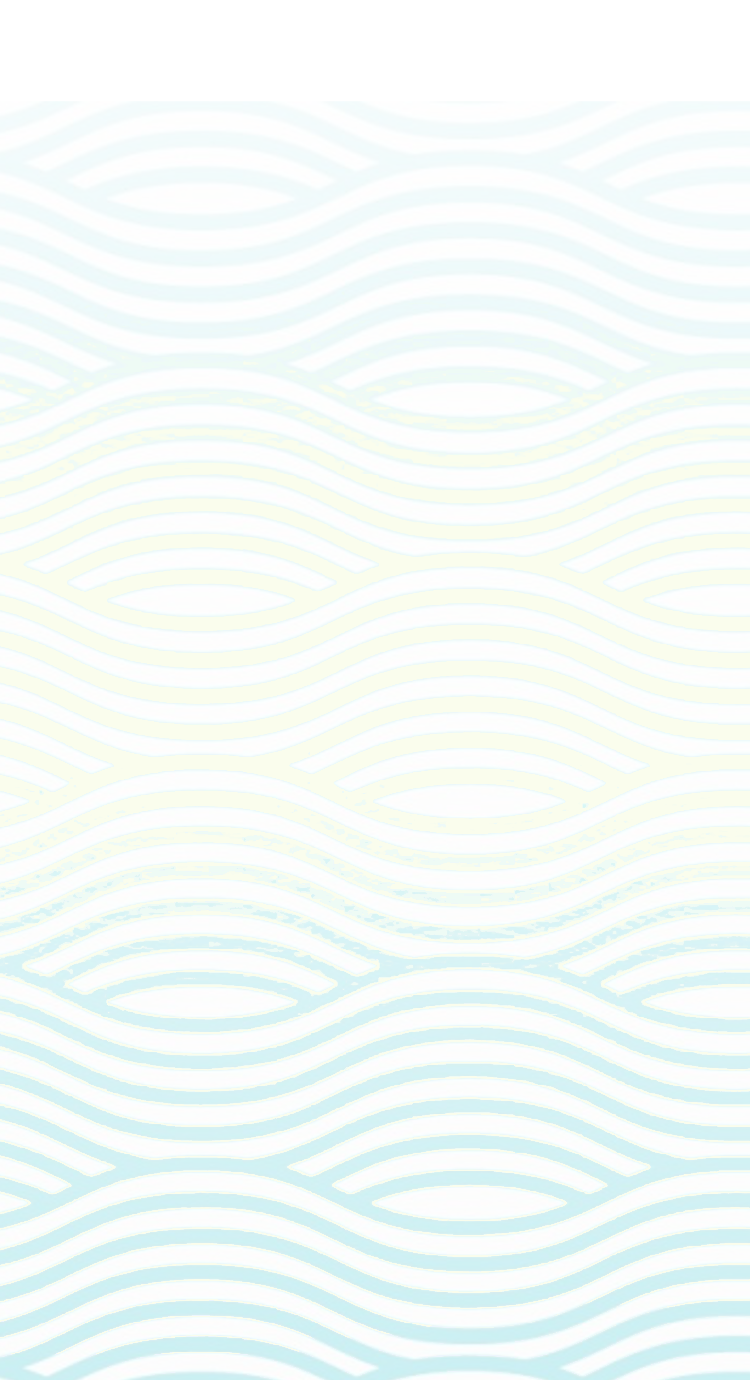
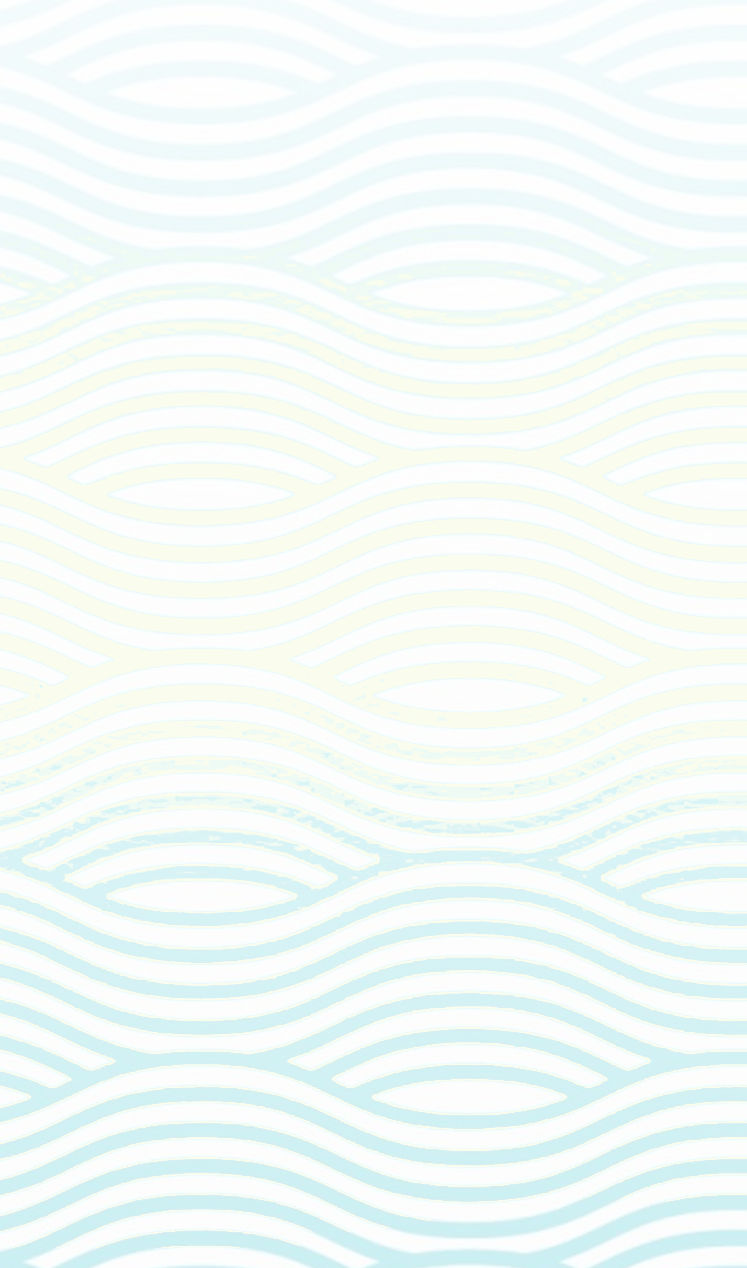
added backgrounds

Changed region(s): [[0.0, 0.6459, 1.0, 0.9227], [0.0, 0.9535, 1.0, 1.0]]

diff --git a/App/Containers/RunTrackerScreen.js b/App/Containers/RunTrackerScreen.js
@@ -1,7 +1,7 @@
 import React from 'react'
 import { View, ScrollView, Text, TouchableOpacity, Image, StyleSheet } from 'react-native'
 import { StackNavigator } from 'react-navigation'
-import { Images } from './DevTheme'
+import { Images } from '../Themes'
 import MapView from 'react-native-maps'
 import styles from './Styles/RunTrackerScreenStyles'
 import RoundedButton from '../../App/Components/RoundedButton'
@@ -273,6 +273,8 @@ class RunTrackerScreen extends React.Component {
           </View>
           </PopupDialog>
         </View>
+        
+        <Image source={Images.waves2} style={styles.backgroundImage} resizeMode='repeat' />
 
         <TouchableOpacity onPress={() => { this.setState({text: 'start'}) 
           NavigationActions.pop()}} style={{
@@ -284,9 +286,8 @@ class RunTrackerScreen extends React.Component {
           <Image source={Images.backButton} />
         </TouchableOpacity>
 
-        <ScrollView style={styles.container}>
-
-          <View style={{ flexDirection: 'row', flex: 1 , height: 90, opacity: this.state.timerOpacity}}>
+        <ScrollView>
+          <View style={{backgroundColor: 'rgba(0,0,0,0)', flexDirection: 'row', flex: 1 , height: 90, opacity: this.state.timerOpacity}}>
             <Text style={{
               width: 200, 
               fontSize: 50, 
@@ -416,7 +417,7 @@ class RunTrackerScreen extends React.Component {
 export default StackNavigator({
   RunTrackerScreen: {screen: RunTrackerScreen}
 }, {
-  headerMode: 'screen',
+  headerMode: 'float',
   initialRouteName: 'RunTrackerScreen',
   navigationOptions: {
     header: {

diff --git a/App/Containers/CGscreen.js b/App/Containers/CGscreen.js
@@ -13,6 +13,7 @@ import GoalsPage from './Goals'
 import ChallengePage from './Challenges'
 import Tabs from 'react-native-tabs';
 import Spinner from 'react-native-loading-spinner-overlay';
+import styles from './Styles/RunTrackerScreenStyles'
 
 @connect(store => ({
   userinfo: store.login.username,
@@ -48,6 +49,7 @@ class CGscreen extends React.Component {
         if(!this.props.userobj){
       return (
       <View>
+          <Image source={Images.waves2} style={styles.backgroundImage} resizeMode='repeat' />
          <ActivityIndicator
             size="large"
             color="#0000ff"
@@ -57,6 +59,8 @@ class CGscreen extends React.Component {
     } 
     return (
       <View>
+        <Image source={Images.waves2} style={styles.backgroundImage} resizeMode='repeat' />
+
        <TouchableOpacity onPress={() => NavigationActions.pop()} style={{
           position: 'absolute',
           paddingTop: 0,
@@ -65,10 +69,10 @@ class CGscreen extends React.Component {
         }}>
           <Image source={Images.backButton} />
         </TouchableOpacity>
-      <ScrollView>
+      <ScrollView >
 
       <View>
-         <ScrollableTabView>
+         <ScrollableTabView style={{backgroundColor: 'rgba(0,0,0,0)'}}>
         <GoalsPage tabLabel="Goals"/>
         <ChallengePage tabLabel="Challenges"/>
         </ScrollableTabView>

diff --git a/App/Containers/DevTheme/ApplicationStyles.js b/App/Containers/DevTheme/ApplicationStyles.js
@@ -9,7 +9,6 @@ const ApplicationStyles = {
   screen: {
     mainContainer: {
       flex: 1,
-      backgroundColor: Colors.transparent
     },
     backgroundImage: {
       position: 'absolute',
@@ -21,7 +20,6 @@ const ApplicationStyles = {
     container: {
       flex: 1,
       paddingTop: Metrics.baseMargin,
-      backgroundColor: Colors.transparent
     },
     section: {
       margin: Metrics.section,
@@ -30,12 +28,12 @@ const ApplicationStyles = {
     sectionText: {
       ...Fonts.normal,
       paddingVertical: Metrics.doubleBaseMargin,
-      color: Colors.snow,
+      // color: Colors.snow,
       marginVertical: Metrics.smallMargin,
       textAlign: 'center'
     },
     subtitle: {
-      color: Colors.snow,
+      // color: Colors.snow,
       padding: Metrics.smallMargin,
       marginBottom: Metrics.smallMargin,
       marginHorizontal: Metrics.smallMargin

diff --git a/App/Themes/ApplicationStyles.js b/App/Themes/ApplicationStyles.js
@@ -9,7 +9,7 @@ const ApplicationStyles = {
   screen: {
     mainContainer: {
       flex: 1,
-      backgroundColor: Colors.transparent
+      backgroundColor: 'red',
     },
     backgroundImage: {
       position: 'absolute',
@@ -21,7 +21,7 @@ const ApplicationStyles = {
     container: {
       flex: 1,
       paddingTop: Metrics.baseMargin,
-      backgroundColor: Colors.transparent
+      // backgroundColor: Colors.transparent
     },
     section: {
       margin: Metrics.section,
@@ -66,7 +66,7 @@ const ApplicationStyles = {
   sectionTitle: {
     ...Fonts.style.h4,
     color: Colors.coal,
-    backgroundColor: Colors.ricePaper,
+    backgroundColor: 'red',
     padding: Metrics.smallMargin,
     marginTop: Metrics.smallMargin,
     marginHorizontal: Metrics.baseMargin,

diff --git a/App/Components/Styles/SearchBarStyles.js b/App/Components/Styles/SearchBarStyles.js
@@ -5,7 +5,7 @@ export default StyleSheet.create({
   container: {
     flex: 1,
     marginTop: Metrics.smallMargin,
-    backgroundColor: Colors.transparent,
+    // backgroundColor: Colors.transparent,
     flexDirection: 'row',
     width: Metrics.screenWidth - Metrics.baseMargin
   },
@@ -28,7 +28,7 @@ export default StyleSheet.create({
     left: Metrics.doubleBaseMargin,
     alignSelf: 'center',
     color: Colors.snow,
-    backgroundColor: Colors.transparent
+    // backgroundColor: Colors.transparent
   },
   cancelButton: {
     alignItems: 'center',

diff --git a/App/Containers/Styles/SearchBarStyles.js b/App/Containers/Styles/SearchBarStyles.js
@@ -5,7 +5,7 @@ export default StyleSheet.create({
   container: {
     flex: 1,
     marginTop: Metrics.smallMargin,
-    backgroundColor: Colors.transparent,
+    // backgroundColor: Colors.transparent,
     flexDirection: 'row',
     width: Metrics.screenWidth - Metrics.baseMargin
   },
@@ -28,7 +28,7 @@ export default StyleSheet.create({
     left: Metrics.doubleBaseMargin,
     alignSelf: 'center',
     color: Colors.snow,
-    backgroundColor: Colors.transparent
+    // backgroundColor: Colors.transparent
   },
   cancelButton: {
     alignItems: 'center',

diff --git a/App/Navigation/Styles/CustomNavBarStyles.js b/App/Navigation/Styles/CustomNavBarStyles.js
@@ -9,7 +9,7 @@ export default {
     height: Metrics.navBarHeight,
     paddingTop: Metrics.smallMargin,
     paddingHorizontal: 5,
-    backgroundColor: Colors.background,
+    // backgroundColor: Colors.background,
     flexDirection: 'row',
     justifyContent: 'space-between'
   },
@@ -18,7 +18,7 @@ export default {
     textAlign: 'center',
     color: Colors.snow,
     marginTop: Metrics.doubleBaseMargin,
-    backgroundColor: Colors.transparent,
+    // backgroundColor: Colors.transparent,
     fontWeight: 'bold',
     fontSize: Fonts.size.input
   },

diff --git a/App/Containers/DevTheme/Images.js b/App/Containers/DevTheme/Images.js
@@ -2,6 +2,8 @@
 const images = {
   igniteClear: require('../Images/ignite-logo-transparent.png'),
   tileBg: require('../Images/tile_bg.png'),
+  waves: require('../Images/waves2.png'),
+  waves2: require('../Images/waves.png'),
   background: require('../Images/BG.png'),
   api: require('../Images/Icons/icon-api-testing.png'),
   components: require('../Images/Icons/icon-components.png'),

diff --git a/App/Themes/Images.js b/App/Themes/Images.js
@@ -3,6 +3,7 @@ const images = {
   logo: require('../Images/ir.png'),
   clearLogo: require('../Images/top_logo.png'),
   waves: require('../Images/waves2.png'),
+  waves2: require('../Images/waves.png'),
   launch: require('../Images/rabbit.png'),
   ready: require('../Images/your-app.png'),
   ignite: require('../Images/ignite_logo.png'),

diff --git a/App/Containers/DevTheme/Colors.js b/App/Containers/DevTheme/Colors.js
@@ -1,10 +1,10 @@
 const colors = {
-  transparent: 'rgba(0,0,0,0)',
+  transparent: 'red',
   // background: 'white',
   background: require('../Images/waves.png'),
   silver: '#F7F7F7',
   frost: '#D8D8D8',
-  windowTint: 'rgba(0, 0, 0, 0.4)',
+  windowTint: 'red',
   panther: '#161616',
   charcoal: '#595959',
   snow: 'white',

diff --git a/App/Containers/Challenges.js b/App/Containers/Challenges.js
@@ -12,6 +12,7 @@ import { Button, Card } from 'react-native-material-design';
 import Tabs from 'react-native-tabs';
 import Accordion from 'react-native-collapsible/Accordion';
 import LoginActions from '../Redux/LoginRedux'
+import styles from './Styles/RunTrackerScreenStyles'
 
 
 class Challenge extends React.Component {

diff --git a/App/Themes/Colors.js b/App/Themes/Colors.js
@@ -1,8 +1,8 @@
 const colors = {
-  background: '#1F0808',
+  // background: '#1F0808',
   clear: 'rgba(0,0,0,0)',
   facebook: '#3b5998',
-  transparent: 'rgba(0,0,0,0)',
+  // transparent: 'red',
   silver: '#F7F7F7',
   steel: '#CCCCCC',
   error: 'rgba(200, 0, 0, 0.8)',
